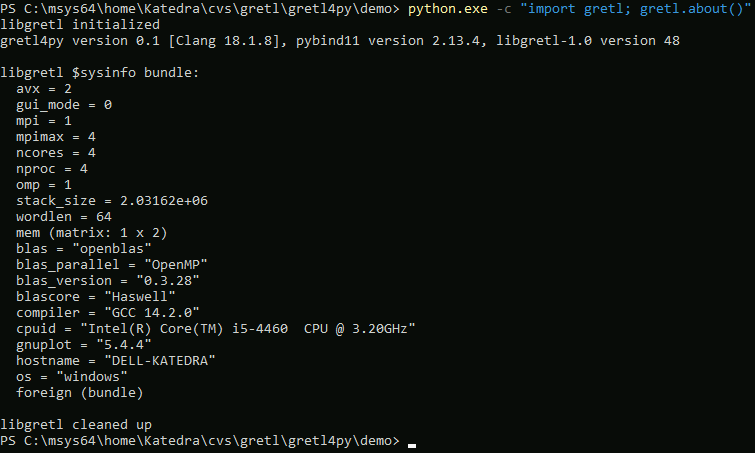
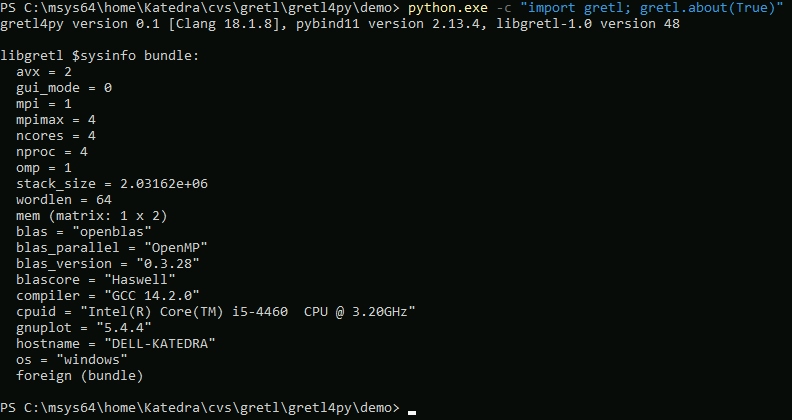
small tweak related with about(false) + new screenshot

Changed region(s): [[0.0, 0.0, 1.0, 0.9905]]

diff --git a/doc/Installation.tex b/doc/Installation.tex
@@ -46,7 +46,7 @@ Figure~\ref{fig:mswindows_install.bat} shows an example output from \installbat.
 	\label{fig:mswindows_install.bat}
 	\caption{Example output from \installbat}
 \end{figure}
-To verify installation, type `python.exe -c "import gretl; gretl.about()"',
+To verify installation, type `python.exe -c "import gretl; gretl.about(True)"',
 which should result in something similar to what is presented on
 Figure~\ref{fig:mswindows_about}.
 
@@ -74,7 +74,7 @@ refers to the version of \python being used.
 
 To install the files into the path generated by the command
 `\texttt{python3 -m site --user-site}', run `\texttt{make install}'.
-To verify the installation, run `python3 -c "import gretl; gretl.about()"'
+To verify the installation, run `python3 -c "import gretl; gretl.about(True)"'
 (see Figure~\ref{fig:mswindows_about}).
 
 
